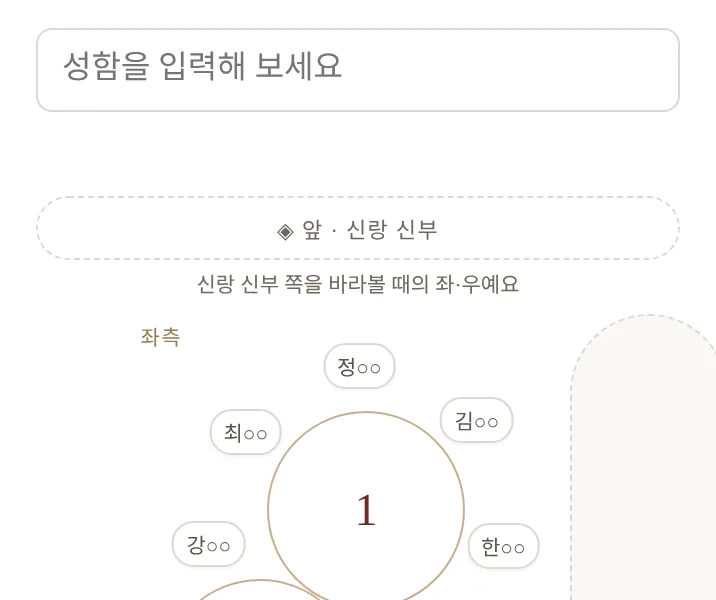
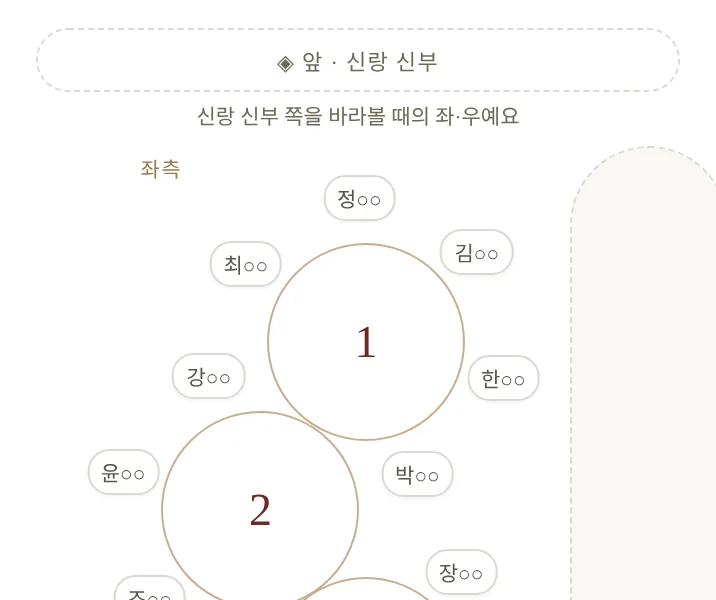
SEAT_PLAN_9 하객 · 부부 입장 디테일 — 전체 공개에도 «옆으로 밀면» 한 줄 · 음료 낱말 하나로 · 스태프 A4 옛 음료 · 예시 그림 [SEAT_PLAN_9 · DRINK_TWO · SEAT_EX_SHOT]
- guide 전체 공개 좌석표: 좌측부터 보이니 «옆으로 밀면 우측 테이블이 보여요» 한 줄(그림이 다 들어가면 숨김)
- 하객 음료 줄 «논알콜» → 부부가 고르는 칩과 같은 «논알코올 스파클링»
- 내 자리 그림 아래 안내 두 문장을 두 줄로(줄 앞 «·» · 한 낱말 떨어짐 없이 · seat · guide 함께)
- 스태프 A4: 옛 레드와인 · 유아 · 어린이 값도 지금 준비하는 둘(샴페인 · 논알콜)로 센다 · 범례는 제 줄
- 전체 공개 예시 그림은 배치도부터(그 칸 설명이 «검색 없이 바로»)

Claude-Session: https://claude.ai/code/session_01NQtafo1FptWSLeajnVdWxq

diff --git a/guide.html b/guide.html
@@ -136,6 +136,8 @@ body{background:var(--bg);margin:0;padding:26px 15px 60px;font-family:var(--seri
 .gt-no{font-family:var(--serif-ko);font-size:23px;font-weight:500;line-height:1;color:var(--seal,#6B2A24)}
 .gt-cap{display:-webkit-box;-webkit-line-clamp:2;-webkit-box-orient:vertical;overflow:hidden;max-width:64px;font-family:var(--serif-ko);font-size:10px;line-height:1.25;color:var(--gold-deep);text-align:center;word-break:keep-all}
 .gmap-entry{font-family:var(--serif-ko);font-size:10.5px;letter-spacing:.3em;color:var(--light);margin-top:4px}
+.gmap-swipe{font-size:11px;color:var(--light);margin-top:2px}   /* [SEAT_PLAN_9] seat.html .swipe 와 같은 말 · 같은 크기 */
+.mtb-wrap:has(.gmap) .mtb-cap{word-break:keep-all}   /* 두 문장은 두 줄로(줄 앞에 «·»가 오거나 한 낱말만 떨어지지 않게 · [CF_DOT_BREAK]) */
 .mtb-wrap:has(.gmap) .mtb-cap{padding:0 18px}   /* 배치도가 카드 끝까지 넓어진 상자라 안내 줄은 카드 여백만큼 안쪽에 */
 .find-res b{color:var(--seal);font-weight:600}
 .find-res .rt{display:inline-flex;align-items:center;justify-content:center;min-width:22px;height:22px;border-radius:50%;background:var(--seal);color:#fff;font-size:12px;font-weight:500;margin-right:6px;vertical-align:middle}
@@ -1026,12 +1028,12 @@ function renderFullMap(){
 // '내 자리만' 모드 — 이름이 입력되면 서버(seatView+q)에 물어 일치 테이블만 받는다(명단 비수신). 타이핑 멈춘 뒤 1회 호출(연타 절약).
 //   같은 검색·결과 규칙이 seat.html(검색 전용 화면)에도 복제돼 있음 — 문구·규칙 수정 시 두 파일 함께.
 /* [GUIDE_DRINK] 자리별 음료 — 마이페이지가 자리마다 고르는 값과 같은 계약이다
-   (11/22 부터 C 샴페인 · N 논알콜 스파클링 둘 · 옛 R · K · Y 는 아래 표처럼 읽는다 · 의자(유아용 · 휠체어)는 하객 화면에 내지 않는다).
+   (11/22 부터 C 샴페인 · N 논알코올 스파클링 둘 · 옛 R · K · Y 는 아래 표처럼 읽는다 · 의자(유아용 · 휠체어)는 하객 화면에 내지 않는다).
    ★[KID_SEAT 2026-08-16] K 는 아이 자리 — 물과 유아용 의자를 준비한다는 뜻이다. 네 파일(mypage·guide·admin·80_production)이 한 벌.
    ★서버(seatView)가 drink를 보내줄 때만 뜬다 — 안 보내면 조용히 아무것도 안 그린다.
      없는 정보를 지어내지 않고, GAS가 필드를 싣기 시작하면 저절로 켜진다.
    ★하객에게는 '내 자리'의 음료만 보인다. 남의 음료는 취향·건강 정보라 절대 노출하지 않는다. */
-var DRINK_LABEL={C:'샴페인',R:'샴페인',N:'논알콜 스파클링',K:'논알콜 스파클링',Y:'논알콜 스파클링'};   // ★[DRINK_TWO 2026-11-22 사장님 «샴페인만» · «물도 빼고 논알콜 스파클링»] 음료는 둘 · 옛 값은 마이페이지가 옮기는 것과 같게 읽는다(R → 샴페인 · K · Y → 논알콜 스파클링) · 레드와인 · 물은 되살리지 않는다
+var DRINK_LABEL={C:'샴페인',R:'샴페인',N:'논알코올 스파클링',K:'논알코올 스파클링',Y:'논알코올 스파클링'};   // ★[DRINK_TWO 2026-11-22 사장님 «샴페인만» · «물도 빼고 논알콜 스파클링»] 음료는 둘 · 옛 값은 마이페이지가 옮기는 것과 같게 읽는다(R → 샴페인 · K · Y → 논알코올 스파클링) · 낱말은 부부가 고르는 칩(마이페이지 «논알코올 스파클링»)과 같게 · 레드와인 · 물은 되살리지 않는다
 var DRINK_TONE={C:'#B08A3E',R:'#B08A3E',N:'#5F9E86',K:'#5F9E86',Y:'#5F9E86'};
 function drinkHtml(code){
   var k=String(code||'').toUpperCase(), t=DRINK_LABEL[k];
@@ -1048,8 +1050,9 @@ function _mtLb(p){ var g=(Math.abs(p.y)<0.49*41)?8:1, s='--lb-ax:'+p.x.toFixed(1
   else if(p.x<-0.05) s+=';--lb-hi:calc('+(-g-p.x).toFixed(1)+'px - 100%);--lb-room:calc(var(--lb-ch) + var(--lb-zd, 0) * var(--gz,22px) - '+(2+g)+'px)';
   return s; }
 // 홀 전체 배치(익명) — room=[{no,label,side,occ[]}] · hti=본인 테이블 · mi=본인 자리 · nm=본인 이름만 표시(타인 명단 비노출)
-// [SEAT_PLAN_9] 배치도를 가로로 미는 상자(.gmap)에서 처음 위치 — 내 자리(없으면 내 테이블 · 그도 없으면 버진로드)가 가운데 오게(옆으로만)
+// [SEAT_PLAN_9] 배치도를 가로로 미는 상자(.gmap)에서 처음 위치 — 좌측 묶음이 통째로 보이는 자리 · 내 자리가 안 보이면 그 자리를 가운데로(옆으로만) · 그림이 다 들어가면 «옆으로 밀면» 줄을 숨긴다
 function gmapCenter(root){ try{ Array.prototype.forEach.call((root||document).querySelectorAll('[data-gmap]'),function(g){ var w=g;
+  var sw=g.parentNode&&g.parentNode.querySelector('[data-swipe]'); if(sw) sw.hidden=!(g.scrollWidth>g.clientWidth+2);
   var me=g.querySelector('.smap-s .gr-me,.smap-s .gr-dot.me')||g.querySelector('.smap-t.hit'); if(!me){ g.scrollLeft=0; return; }   // 내 자리가 없는 전체 공개 그림은 좌측 묶음이 통째로 보이는 자리에서 시작(seat.html gmapFit 과 같은 시작)
   w.scrollLeft=0; var wr=w.getBoundingClientRect(), mr=me.getBoundingClientRect(); if(mr.left<wr.left+24 || mr.right>wr.right-24) w.scrollLeft+=(mr.left+mr.width/2)-(wr.left+wr.width/2); }); }catch(e){} }   // 좌측 묶음이 통째로 보이는 자리에서 시작 · 내 자리가 안 보일 때만 그 자리를 가운데로(seat.html mineFit 과 같은 규칙)
 function seatRoomHtml(hit){
@@ -1088,7 +1091,8 @@ function seatRoomHtml(hit){
   //   ★tabindex를 뺐다가는 조용히 되돌아간다 — 눈으로는 아무 차이가 없어서 아무도 모른다.
   return '<div class="mtb-wrap" tabindex="0" role="group" aria-label="좌석 배치도 · 좌우로 넘겨 보실 수 있어요">'+srAlt+'<div aria-hidden="true"><div class="mtb-stage">&#9672; 앞 · 신랑 신부</div>'
     +'<div class="gmap smap-scroll" data-gmap>'+map+'</div><div class="gmap-entry">입장</div>'
-    +(hit.all?'':'<div class="mtb-cap">'+(one?'이름이 표시된 자리가 내 자리예요 · 다른 자리 성함은 보이지 않아요':'강조된 자리 중 하나가 내 자리예요 · 성함을 전체로 입력하면 정확히 표시돼요')+'</div>')+'</div></div>';   // 전체 공개 좌석표엔 검색용 캡션 불필요(2026-07-18 사용자 지시 · 미니멀)
+    +(hit.all?'<div class="gmap-swipe" data-swipe>옆으로 밀면 우측 테이블이 보여요</div>':'')   // [SEAT_PLAN_9] 전체 공개는 좌측 묶음부터 보인다 — 우측이 있다는 것을 한 줄로(seat.html · 편집기와 같은 말 · 그림이 다 들어가면 숨긴다)
+    +(hit.all?'':'<div class="mtb-cap">'+(one?'이름이 표시된 자리가 내 자리예요<br>다른 자리 성함은 보이지 않아요':'강조된 자리 중 하나가 내 자리예요<br>성함을 전체로 입력하면 정확히 표시돼요')+'</div>')+'</div></div>';   // 전체 공개 좌석표엔 검색용 캡션 불필요(2026-07-18 사용자 지시 · 미니멀)
 }
 function seatHitsHtml(v, hits){   // 서버 검색 결과 → 안내(0=못 찾음 · 1=단정+내 테이블 배치 · 2~3=후보 나열(동명이인 막다른길 방지) · 4+=성함 더 입력)
   if(!hits.length) return '그 성함을 찾지 못했어요. 현장 안내를 참고해 주세요.';

diff --git a/admin.html b/admin.html
@@ -994,24 +994,25 @@ function _seatChartDoc(d){
   var CL={B:'유아용 의자',W:'휠체어'};   // [DRINK_TWO 2026-11-22] 자리 준비(음료와 따로) · 옛 K(유아 · 물)는 유아용 의자로 센다
   var cC=0,cR=0,cN=0,cK=0,cY=0,cU=0,cT=0,cB=0,cW=0;
   function _ch(t,i){ var c=((t&&t.chair)||[])[i]||''; if(!c && ((t.drinks||[])[i])==='K') c='B'; return (c==='B'||c==='W')?c:''; }
-  tables.forEach(function(t){ ((t&&t.seats)||[]).forEach(function(v,i){ if(!String(v||'').trim())return; cT++; var dv=((t.drinks||[])[i])||''; if(dv==='C')cC++; else if(dv==='R')cR++; else if(dv==='N')cN++; else if(dv==='K')cK++; else if(dv==='Y')cY++; else cU++; var c=_ch(t,i); if(c==='B')cB++; else if(c==='W')cW++; }); });
+  function _dk(t,i){ var v=((t&&t.drinks)||[])[i]||''; return ({R:'C',K:'N',Y:'N'})[v]||v; }   // [DRINK_TWO] 옛 레드와인 · 유아 · 어린이 값도 지금 준비하는 둘(샴페인 · 논알콜)로 센다 — 편집기가 옮기는 것과 같은 규칙 · 스태프가 와인 · 물을 따로 챙기지 않게
+  tables.forEach(function(t){ ((t&&t.seats)||[]).forEach(function(v,i){ if(!String(v||'').trim())return; cT++; var dv=_dk(t,i); if(dv==='C')cC++; else if(dv==='R')cR++; else if(dv==='N')cN++; else if(dv==='K')cK++; else if(dv==='Y')cY++; else cU++; var c=_ch(t,i); if(c==='B')cB++; else if(c==='W')cW++; }); });
   /* ★[SEAT_PLAN_9 2026-11-22] 당일 세팅용 인쇄물도 같은 그림(오프라인 시안 · assets/seat-plan.js) — 테이블 9개를 맞붙인 두 묶음 · 확정 의자 위치 ·
      빈 혼주석은 «혼주» · 음료 색점 · 유아용 의자(유) · 휠체어(휠). 종전 두 열 지그재그(zigX · .proom · .ptbl)는 폐지. A4 한 장에 들어가게 1m = 72px. */
   var mapH=ME_SEAT_PLAN.mapHtml(tables,{
     sides:['좌측','우측'],
     table:function(t,i,no){ var _cn=String((t&&t.name)||'').trim(), c=(_cn && !/^테이블\s*\d+$/.test(_cn))?esc(_cn):''; return '<span class="ptno">'+no+'</span>'+(c?'<span class="ptcap">'+c+'</span>':''); },
-    seat:function(t,i,si,fam){ var nm=String(((t&&t.seats)||[])[si]||'').trim(); var dk=nm?(((t.drinks||[])[si])||''):''; var dot=DL[dk]?'<i class="pd pd-'+dk+'"></i>':''; var c=nm?_ch(t,si):'';
+    seat:function(t,i,si,fam){ var nm=String(((t&&t.seats)||[])[si]||'').trim(); var dk=nm?_dk(t,si):''; var dot=DL[dk]?'<i class="pd pd-'+dk+'"></i>':''; var c=nm?_ch(t,si):'';
       return '<span class="pseat'+(nm?'':' e')+((!nm&&fam)?' f':'')+'">'+(nm?('<span class="pnm">'+esc(nm)+'</span>'):(fam?'혼주':'·'))+dot+(c?'<b class="pch">'+(c==='W'?'휠':'유')+'</b>':'')+'</span>'; }
   });
   var roster=''; var ordered=[]; tables.forEach(function(t,i){ ordered.push({t:t,no:num[i]||(i+1)}); }); ordered.sort(function(a,b){ return a.no-b.no; });
-  ordered.forEach(function(o){ var parts=[]; ((o.t&&o.t.seats)||[]).forEach(function(nm,i){ nm=String(nm||'').trim(); if(!nm)return; var dk=((o.t.drinks||[])[i])||''; var _c=_ch(o.t,i); parts.push(esc(nm)+' · '+esc(DL[dk]||'미정')+(_c?(' · '+CL[_c]):'')); }); var _cn=String((o.t&&o.t.name)||'').trim(); var _cnl=(_cn && !/^테이블\s*\d+$/.test(_cn))?(' · '+esc(_cn)):'';   // 자리마다 음료 명시(자리별 선택 · 미정 표기) · 커스텀 테이블명도 표기
+  ordered.forEach(function(o){ var parts=[]; ((o.t&&o.t.seats)||[]).forEach(function(nm,i){ nm=String(nm||'').trim(); if(!nm)return; var dk=_dk(o.t,i); var _c=_ch(o.t,i); parts.push(esc(nm)+' · '+esc(DL[dk]||'미정')+(_c?(' · '+CL[_c]):'')); }); var _cn=String((o.t&&o.t.name)||'').trim(); var _cnl=(_cn && !/^테이블\s*\d+$/.test(_cn))?(' · '+esc(_cn)):'';   // 자리마다 음료 명시(자리별 선택 · 미정 표기) · 커스텀 테이블명도 표기
     if(parts.length) roster+='<div class="pr"><b>'+o.no+'번 '+(String(o.t.side||'L')==='R'?'우측':'좌측')+_cnl+'</b> '+parts.join(' |  ')+'</div>'; });
   var totLine='음료 합계 · 샴페인 '+cC+(cR?(' · 레드와인 '+cR):'')+' · 논알콜 스파클링 '+cN+(cK?(' · 유아(물) '+cK):'')+(cY?(' · 어린이(물) '+cY):'')+(cU?(' · 미정 '+cU):'')+' · 총 '+cT+'명'
     + (cB?('  ★유아용 의자 '+cB+'개'):'')+(cW?('  ★휠체어 '+cW+'자리(의자 빼 두기)'):'');   // [DRINK_TWO] 당일 준비물 — 자리 준비에서 센다(옛 K 포함)   // [KID_SEAT] 당일 준비물이라 합계 줄에 바로 · [KID_CHAIR] 의자는 유아(K)만 — 어린이(Y)를 더하면 안 쓸 의자가 나온다
   var css='*{box-sizing:border-box}body{font-family:"Noto Serif KR","Nanum Myeongjo",serif;color:#2a2018;margin:0;padding:16px 18px}'
     +'h1{font-size:19px;margin:0 0 2px;font-weight:600}.psub{font-size:12.5px;color:#6b6257;margin-bottom:10px}'
     +'.ptot{font-size:13px;font-weight:600;background:#f5f1ea;border:1px solid #e3dccf;border-radius:8px;padding:8px 11px;margin-bottom:6px}'
-    +'.plg{font-weight:400;font-size:11.5px;color:#6b6257;margin-left:6px}.plg i{display:inline-block;width:9px;height:9px;border-radius:50%;vertical-align:middle;margin:0 3px 0 9px}'
+    +'.plg{display:block;margin-top:4px;font-weight:400;font-size:11.5px;color:#6b6257}.plg i{display:inline-block;width:9px;height:9px;border-radius:50%;vertical-align:middle;margin:0 3px 0 9px}'
     +'.pstage{text-align:center;font-size:11px;letter-spacing:.12em;color:#8a8072;border:1px dashed #d8d1c4;border-radius:16px;padding:6px;margin:8px 0 10px}'
     +'.proom{display:flex;gap:6px;align-items:flex-start;justify-content:center}.pcol{flex:1;max-width:380px;display:flex;flex-direction:column;gap:18px;align-items:center;overflow:visible}'
     +'.paisle{writing-mode:vertical-rl;font-size:9px;letter-spacing:.3em;color:#9a7b4f;padding:20px 3px 0}'

diff --git a/seat.html b/seat.html
@@ -513,7 +513,7 @@ function mineRoomHtml(hit){
   return (one?'':'<p class="sr-only">같은 테이블에 성함이 비슷한 자리가 여럿이에요. 성함을 전체로 입력하면 정확히 표시돼요.</p>')
     +'<div aria-hidden="true"><div class="stage" style="margin:16px 0 6px">&#9672; 앞 · 신랑 신부</div>'
     +'<div class="gmap smap-scroll" data-gmap>'+map+'</div><div class="entry">입장</div>'
-    +'<div class="foot" style="margin-top:8px">'+(one?'이름이 표시된 자리가 내 자리예요 · 다른 자리 성함은 보이지 않아요':'강조된 자리 중 하나가 내 자리예요 · 성함을 전체로 입력하면 정확히 표시돼요')+'</div></div>';
+    +'<div class="foot" style="margin-top:8px">'+(one?'이름이 표시된 자리가 내 자리예요<br>다른 자리 성함은 보이지 않아요':'강조된 자리 중 하나가 내 자리예요<br>성함을 전체로 입력하면 정확히 표시돼요')+'</div></div>';
 }
 // '내 자리만' 모드(부부 설정 · 기본값) — 전체 배치도 대신 이름 검색 전용 화면. 명단은 기기로 받지 않고
 //   서버 검색(seatView+q)으로 본인 테이블만 답한다. 이미 배포된 링크·QR도 이 화면으로 자연 전환(죽은 링크 없음).
